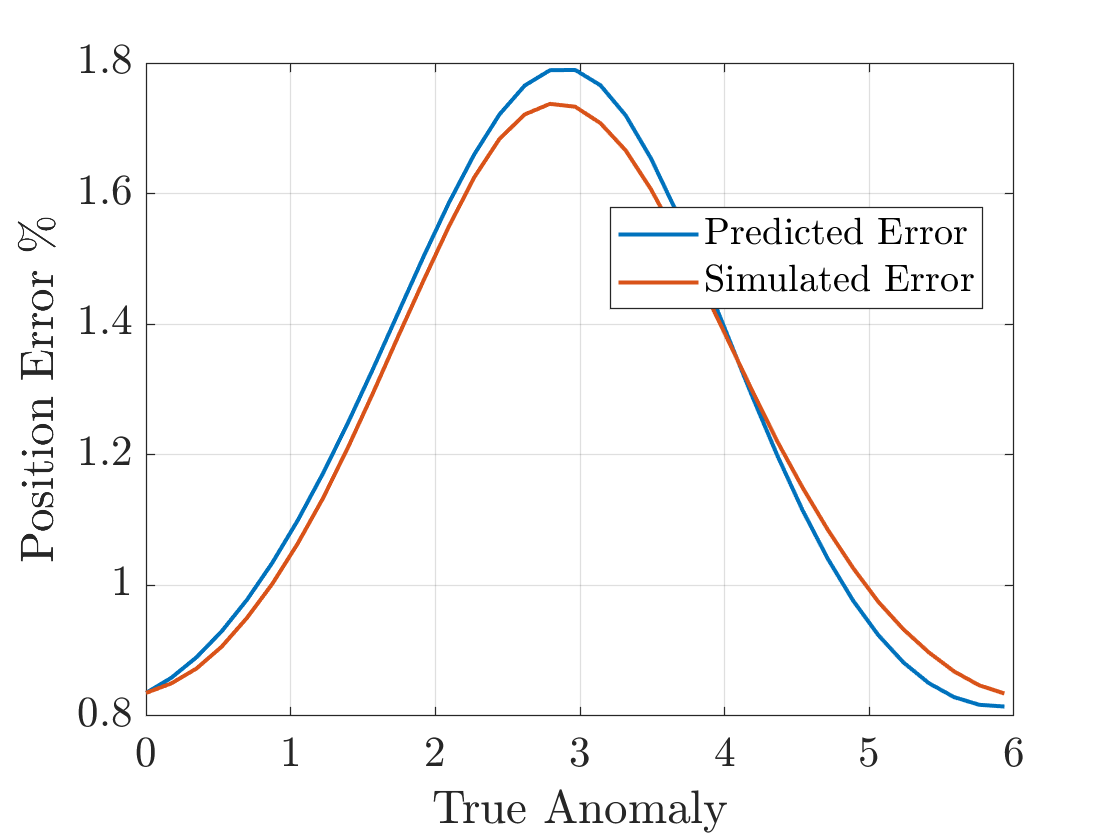
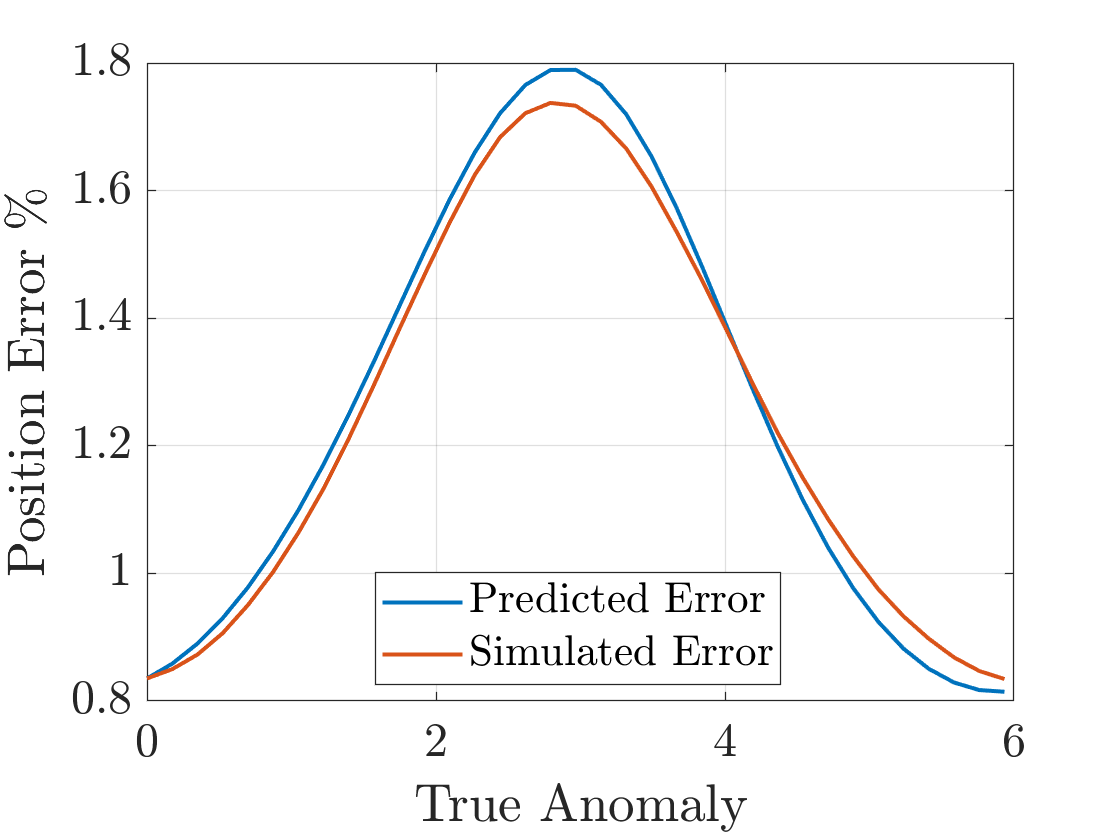
Update plot fonts and add circle fitting inverse square relation plot

diff --git a/viod_dev/Misc Testing/hodographTests/taErrorSim.m b/viod_dev/Misc Testing/hodographTests/taErrorSim.m
@@ -1,44 +1,57 @@
+
 clear;clc
 
 addpath('..\functions')
 
-f0 = deg2rad(180);
+f0 = deg2rad(0);
 
-dfvect = deg2rad([10,15,30,60,90,120,150,180,210,240,270,300,330]);
+dfvect = deg2rad(linspace(10,350,20));
 
 numObsv = 3;
 
 mu = 1;
 a = 1;
 e = 0.9;
-i = deg2rad(45);
+i = deg2rad(30);
 omg = deg2rad(0);
 w = deg2rad(0);
-noise = 0.0001;
+noise = 0.0002;
 orbitParams = [a,e,i,omg,w,0];
 
+rngSeed = 1;
 selObsv = 1;
 numSims = 2000;
 v = nan(numObsv,3);
 errVect = nan(numSims,length(dfvect));
 
 for i = 1:length(dfvect)
+    rng(rngSeed)
     fvect = linspace(f0,f0+dfvect(i),numObsv);
+    ncube = randn(numObsv,3,numSims) * noise;
+    orbitParams(6) = fvect(selObsv);
+    rRef = Get_Orb_Vects(orbitParams,mu);
     for s = 1:numSims
-        nvect = randn(numObsv,3) * noise;
+        nvect = ncube(:,:,s);
         for j = 1:numObsv
             orbitParams(6) = fvect(j);
             [~,v(j,:)] = Get_Orb_Vects(orbitParams,mu);
         end
-        orbitParams(6) = fvect(selObsv);
-        rRef = Get_Orb_Vects(orbitParams,mu);
         r = hodo(v+nvect,mu);
         r = r(selObsv,:)';
         errVect(s,i) = norm(r-rRef) / norm(rRef);
     end
 end
+
+%% plotting
+figure(1)
 hold on
-plot(dfvect,mean(errVect).*dfvect.^1.5)
-hold off
+DF = rad2deg(dfvect);
+power = 2 - 2 * DF / 360;
+plot(DF,mean(errVect).*(DF.^power).*DF,'LineWidth',1.5)
+% plot(DF,mean(errVect),'LineWidth',1.5)
 xlabel('df')
 ylabel('error metric')
+ax = gca;
+ax.FontSize = 18;
+grid on
+hold off

diff --git a/viod_dev/Misc Testing/hodographTests/invSqDemo.m b/viod_dev/Misc Testing/hodographTests/invSqDemo.m
@@ -1,9 +1,9 @@
 % compares circle fitting algorithm accuracy w.r.t separation of samples
 
-close all
-clear;
+% close all
+clear
 
-addpath('functions')
+addpath('..\functions')
 
 % circle definition
 R = 1;
@@ -11,14 +11,12 @@ e = 0.1;
 C = e * [1;1] / norm([1;1]) * R;
 
 % define ranges
-range = logspace(log10(8),log10(180),150);
+range = logspace(log10(8),log10(350),200);
 % range = linspace(8,180,150);
 errVect = nan(size(range));
 
 sample_count = 3;
-f0 = 90;
-
-while true
+f0 = 0;
 
 % iterate through ranges
 for j = 1:length(range)
@@ -40,7 +38,7 @@ points = [cos(f_vect);sin(f_vect)] + C;
 err = 0;
 
 % Monte Carlo simulation
-numSims = 750;
+numSims = 3000;
 for i = 1:numSims
     
     % apply noise
@@ -74,6 +72,7 @@ errVect(j) = err / numSims;
 end
 
 % does the inverse-square model fit?
+df = range';
 x = 1./(range'.^2);
 A = [x, ones(size(x))];
 y = errVect';
@@ -86,22 +85,15 @@ ssres = sum((A*mb-B).^2);
 R2 = 1-ssres/sstot;
 
 % plot
-h = plot(x,y);
+figure(1)
+hold on
+h = plot(x,y,'LineWidth',1.5);
 xlabel('$1/df^2$');
 ylabel('error');
-title(['f0 = ' num2str(f0) ',   R = ' num2str(R2,4)])
-drawnow;
-
-f0 = mod(f0+3,360);
-break
-if ~isvalid(h)
-    break
-end
-
-end
-
-% display line properties
-
-
-
+% title(['R = ' num2str(R2,4)])
+set(gca,'FontSize',18)
+grid on
+grid(gca,'minor')
+hold off
+disp(num2str(R2,4))
 

diff --git a/viod_dev/Misc Testing/hodographTests/taErrorEstimator.m b/viod_dev/Misc Testing/hodographTests/taErrorEstimator.m
@@ -8,7 +8,7 @@ addpath('..\..\..\journal\cases')
 
 mu = 1;
 a  = 1;
-e  = 0.1;
+e  = 0.9;
 
 period = 0.1;
 period = period * 2*pi;
@@ -56,7 +56,10 @@ for i = 1:length(TA)
     df = mod(df,2*pi);
     
     % scale with measurement arc span
-    error = 1 / df^1.5;
+    error = 1 / df^2;
+    
+%     error = 1 / df^(2-df/pi) / sqrt((1-e)/(1+e)+(1+e)/(1-e));
+    
     % scale with position magnitude
 %     error = error / ( (1-e^2)/(1+e*cos(fvect(selObsv))) );
     % scale with measurement magnitude
@@ -66,6 +69,8 @@ for i = 1:length(TA)
     dfVect(i) = df;
 end
 
+disp(['Scale factor = ' num2str(1/errVect(1)*errDat(1))])
+
 figure;
 plot(TA,errVect/errVect(1)*errDat(1)*100,'LineWidth',1.5)
 hold on
@@ -74,7 +79,7 @@ hold off
 legend('Predicted Error','Simulated Error','Location','Best')
 xlabel('True Anomaly')
 ylabel('Position Error \%')
-set(gca,'FontSize',16)
+set(gca,'FontSize',18)
 if e > 1
     set(gca,'YScale','log')
 end

diff --git a/viod_dev/Misc Testing/hodographTests/eccErrorEstimator.m b/viod_dev/Misc Testing/hodographTests/eccErrorEstimator.m
@@ -10,7 +10,7 @@ addpath('..\..\..\journal\cases')
 a = 1;
 mu = 1;
 period = 0.1;
-f0deg = 0;
+f0deg = 180;
 f0 = deg2rad(f0deg);
 
 % select the nth observation's position error for comparison
@@ -68,6 +68,7 @@ for i = 1:length(eccs)
 
     % adj 4: error scales inversely with square of measurement span
     adj = 1 / df^2;
+%     adj = 1 / df^(2-df/pi);
     disp(['Meas Span:   ' num2str(adj)])
     error = error * adj;
     disp(' ')
@@ -84,5 +85,5 @@ hold off
 legend('Predicted Error','Simulated Error','Location','Best')
 xlabel('Eccentricity')
 ylabel('Position Error \%')
-set(gca,'FontSize',16)
+set(gca,'FontSize',18)
 grid on
